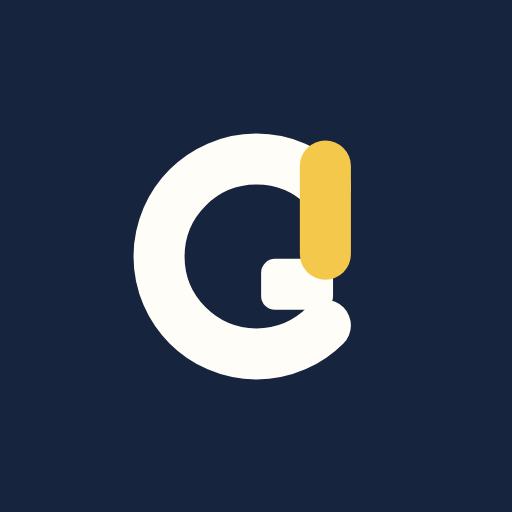
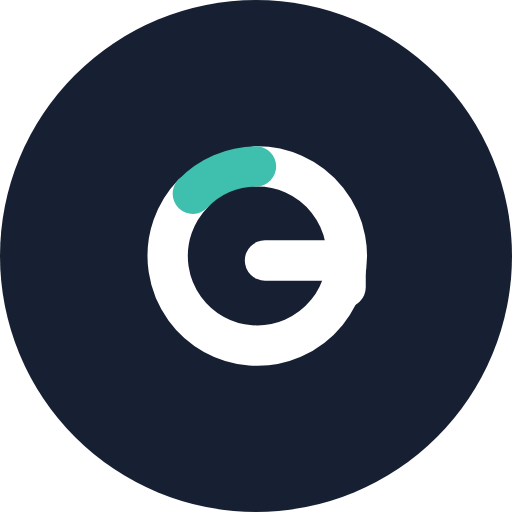
feat: G 심벌·브랜드 강조·아이콘 자산을 새 컬러 시스템에 맞춰 만든다
G 심벌 — 열린 원, 끊긴 곳을 잇는 획
  원      = 경험 → 근거 → 보완 → 기록의 순환
  끊긴 곳 = 아직 정리되지 않은 간격(Gap)
  틸 획   = 그 간격을 근거로 잇는 과정(Proof). 링과 같은 반지름·굵기로 이어 붙어
            "따로 붙은 장식"이 아니라 "원을 완성하는 조각"으로 읽힌다.

3안을 실제로 렌더해 16/24/32/64/160px, 단색, 어두운 배경, 워드마크 락업에서 비교했다.
  A. Open Arc  — 화살촉이 링 밖으로 튀어나와 실루엣이 깨지고, 링+바깥 화살촉은
                 새로고침 아이콘 어휘 그 자체라 사양이 금지한 형태다.
  B. Gap Arc   — 선택. 16px 단색에서 G 가 가장 또렷하고 새로고침 어휘가 없다.
                 처음 안은 틸 조각이 링에서 떨어져 보여 "잇는다" 가 읽히지 않아,
                 같은 반지름·굵기로 이어 붙이도록 다듬었다.
  C. Trace Ring— 실루엣은 깔끔하나 화살표가 아니라 그냥 굵은 끝이라 의미가 없다.

사양과 다르게 한 것: 열린 끝의 화살촉을 정적 심벌에서 뺐다.
읽히는 크기의 화살촉은 새로고침 아이콘으로 읽히고, 그렇게 보이지 않을 만큼 작게 하면
큰 크기에서 브리지에 흡수돼 혹처럼 보였다. 둘 다 사양이 금지한 결과다.
방향은 정적 심벌이 아니라 모션에서 표현한다.

노란 밑줄 재설계
기존은 높이 12px·불투명도 .65·기울임이라 형광펜처럼 글자를 덮었고, 다크에서는
초록 글자와 섞여 1.82:1 까지 떨어졌다. 글자를 덮지 않는 4px 선 하나로 바꾸고,
인디고→틸 그라데이션으로 심벌의 "잇는 획" 과 같은 두 색을 쓴다.
어두운 히어로에서는 색만으로 충분하므로 선을 두지 않는다.

어두운 칩 위 색 정리
--color-highlight 를 인디고로 바꾸면서 네이비 칩 위 글자가 2.64:1 이 됐다.
칩 위 전용으로 --color-brand-accent-on-dark(#3fbfae, 네이비 위 7.19:1)를 두고
진행 번호·파이프라인 번호·시각화 중앙 라벨·히어로 eyebrow 에 적용했다.
로고는 1.4.11 대상이 아니지만 보이지 않으면 의미가 없다.

자산 재생성 — favicon.svg, icon-192/512, 마스커블 512, apple-touch-icon, og.png.
마스커블은 안전영역 22% 를 확보했다. OG 는 심벌·워드마크·태그라인·판정 부정 고지·운영 주체.

측정: 7개 화면(/ /demo /why /how-it-works /technology /login /privacy) axe wcag2a+aa
심각·치명 위반 0건. 적용 전 /technology 1건(2.64:1)이었다.
unit 145/145, lint 신규 0, build 성공.

아직 안 한 것: 키네틱 워드마크 모션, 가독성·밀도 정리. 다음 단계다.
[…]

diff --git a/app/globals.css b/app/globals.css
@@ -12,7 +12,9 @@ button:focus-visible, textarea:focus-visible, input:focus-visible, a:focus-visib
 .brand { display: inline-flex; gap: 10px; align-items: center; min-height: 44px; color: var(--ink); text-decoration: none; font-size: 21px; font-weight: 850; letter-spacing: -.04em; }
 .brand-mark { width: 35px; height: 35px; display: grid; place-items: center; background: var(--color-brand-fill); color: var(--color-brand-fill-contrast); border-radius: 9px 9px 16px 9px; } /* 로고 마크는 테마와 무관하게 고정(브랜드 정체성) */
 .brand-mark svg { width: 74%; height: 74%; display: block; }
-.brand-mark .mark-bridge { fill: var(--yellow); }
+/* 심벌의 "잇는 획". 네이비 칩 위에서 읽혀야 하므로 본문용 틸(#0d7c73, 3.21:1)보다
+   밝은 값을 쓴다(7.19:1). 로고는 1.4.11 대상이 아니지만 보이지 않으면 의미가 없다. */
+.brand-mark .mark-bridge { stroke: var(--color-brand-accent-on-dark); }
 .brand-mark.small { width: 28px; height: 28px; border-radius: 7px 7px 12px 7px; }
 .top-actions { display: flex; align-items: center; gap: 18px; }
 /* design-loop-10: 헤더 테마 토글 — 아이콘+텍스트로 현재 상태를 알리고, 다른 버튼과 동일한 44px 터치 타깃 유지 */
@@ -71,8 +73,19 @@ button:focus-visible, textarea:focus-visible, input:focus-visible, a:focus-visib
 .hero { min-height: calc(100vh - 150px); min-height: calc(100svh - 150px); display: grid; grid-template-columns: 1.06fr .72fr; align-items: center; gap: 82px; }
 .eyebrow, .card-kicker { display: inline-block; color: var(--green); font-size: 12px; font-weight: 850; letter-spacing: .09em; text-transform: uppercase; }
 .hero h1, .section-head h1 { margin: 17px 0 22px; font-size: clamp(48px, 5.2vw, 78px); line-height: 1.05; letter-spacing: -.055em; font-weight: 700; }
-.hero h1 em { color: var(--green); font-style: normal; position: relative; }
-.hero h1 em::after { content: ""; position: absolute; height: 12px; bottom: 5px; left: -2px; right: -4px; background: var(--yellow); opacity: var(--hero-underline-opacity, .65); z-index: -1; transform: rotate(-1deg); }
+/* 강조 표현 — 형광펜 밑줄을 대신하는 브랜드 언어.
+   기존 노란 밑줄(높이 12px, 불투명도 .65, 기울임)은 형광펜처럼 글자를 덮어 본문 독해를
+   방해했고, 다크 모드에서는 초록 글자와 섞여 대비가 1.82:1 까지 떨어졌다.
+   여기서는 글자를 덮지 않는 얇은 선 하나만 글자 아래에 둔다.
+   한 화면에서 강조는 이 한 곳만 쓴다. */
+.hero h1 em { color: var(--color-primary); font-style: normal; position: relative; }
+.hero h1 em::after {
+  content: ""; position: absolute; left: 0; right: 0; bottom: -.06em;
+  height: 4px; border-radius: 2px;
+  /* 인디고에서 틸로 — 심벌의 "잇는 획"과 같은 두 색이다. */
+  background: linear-gradient(90deg, var(--color-primary) 0%, var(--color-accent) 100%);
+}
+@media (max-width: 720px) { .hero h1 em::after { height: 3px; } }
 .hero-lead { max-width: 690px; margin: 0; color: var(--color-text-muted); font-size: 18px; line-height: 1.78; word-break: keep-all; }
 .principles { display: flex; flex-wrap: wrap; gap: 8px; margin-top: 30px; }
 .principles span { padding: 9px 12px; border: 1px solid var(--line); border-radius: 999px; background: var(--color-surface); color: var(--color-text-muted); font-size: 13px; }
@@ -178,7 +191,7 @@ body.drawer-open { overflow: hidden; }
 /* 번호 배지 — 홈 "어떻게 작동하는가"(.home-steps)와 동일한 패턴 재사용, 12단계 텍스트 나열을 스캔 가능하게 */
 .info-pipeline { counter-reset: pstep; margin: 0; padding-left: 0; list-style: none; }
 .info-pipeline li { counter-increment: pstep; position: relative; margin-bottom: 14px; padding-left: 42px; min-height: 26px; font-size: 14px; }
-.info-pipeline li::before { content: counter(pstep); position: absolute; top: 0; left: 0; width: 26px; height: 26px; display: inline-flex; align-items: center; justify-content: center; border-radius: 50%; background: var(--color-brand-fill); color: var(--yellow); font-weight: 800; font-size: 12px; }
+.info-pipeline li::before { content: counter(pstep); position: absolute; top: 0; left: 0; width: 26px; height: 26px; display: inline-flex; align-items: center; justify-content: center; border-radius: 50%; background: var(--color-brand-fill); color: var(--color-brand-accent-on-dark); font-weight: 800; font-size: 12px; }
 .info-pipeline li b { display: block; margin-bottom: 2px; }
 .info-pipeline li p { margin: 0; color: var(--color-text-muted); font-size: 13px; line-height: 1.6; }
 /* design-loop-09: 표 대신 재사용 — 3개 필드를 가진 순서형 단계를 표 없이 카드처럼 보여준다 */
@@ -491,7 +504,7 @@ body.drawer-open { overflow: hidden; }
   .identity small { color: #4a5568 !important; }
   .identity p { color: #333f52 !important; }
   .brand-mark, .brand-mark.small { background: #fff !important; color: var(--color-brand-fill) !important; border: 2px solid var(--color-brand-fill); }
-  .brand-mark .mark-bridge { fill: var(--color-brand-fill) !important; } /* 흰 배경 인쇄에서 노란 브리지 대비 확보 */
+  .brand-mark .mark-bridge { stroke: var(--color-brand-fill) !important; } /* 흰 배경 인쇄에서는 단색으로 */
   .primary span { color: var(--color-brand-fill) !important; }
 }
 
@@ -508,8 +521,9 @@ body.drawer-open { overflow: hidden; }
 .home-hero { background: var(--hero-gradient); }
 .home-hero-inner { max-width: 980px; margin: 0 auto; padding: 64px 24px 44px; }
 .home-hero h1 { font-weight: 700; font-size: clamp(30px, 5.4vw, 52px); line-height: 1.15; letter-spacing: -.02em; margin: 12px 0 16px; color: #fff; word-break: keep-all; overflow-wrap: break-word; }
-.home-hero .eyebrow { color: var(--yellow); word-break: keep-all; }
-.home-hero h1 em { color: var(--yellow); font-style: italic; background: none; }
+.home-hero .eyebrow { color: var(--color-brand-accent-on-dark); word-break: keep-all; }
+.home-hero h1 em { color: var(--color-brand-accent-on-dark); font-style: normal; background: none; }
+.home-hero h1 em::after { display: none; } /* 어두운 배경에서는 색만으로 충분하다 */
 .home-hero .lead { max-width: 640px; color: rgba(255, 255, 255, .84); }
 .home-cta-row { display: flex; flex-wrap: wrap; gap: 12px; margin-top: 22px; }
 .home-cta-row a { display: inline-flex; align-items: center; justify-content: center; text-decoration: none; }
@@ -557,7 +571,7 @@ body.drawer-open { overflow: hidden; }
 .home-more:hover { text-decoration: underline; }
 .home-steps { counter-reset: hstep; display: grid; grid-template-columns: repeat(4, 1fr); gap: 12px; padding: 0; margin: 0; list-style: none; }
 .home-steps li { counter-increment: hstep; background: var(--paper); border: 1px solid var(--line); border-radius: 14px; padding: 14px; }
-.home-steps li::before { content: counter(hstep); display: inline-flex; width: 26px; height: 26px; align-items: center; justify-content: center; border-radius: 50%; background: var(--color-brand-fill); color: var(--yellow); font-weight: 800; font-size: 13px; margin-bottom: 8px; }
+.home-steps li::before { content: counter(hstep); display: inline-flex; width: 26px; height: 26px; align-items: center; justify-content: center; border-radius: 50%; background: var(--color-brand-fill); color: var(--color-brand-accent-on-dark); font-weight: 800; font-size: 13px; margin-bottom: 8px; }
 .home-steps b { display: block; }
 .home-steps span { color: var(--color-text); font-size: 13px; line-height: 1.55; }
 .home-cases { display: grid; grid-template-columns: repeat(3, 1fr); gap: 14px; margin-top: 14px; }
@@ -784,6 +798,7 @@ body.drawer-open { overflow: hidden; }
   --color-brand-fill: #172033;
   --color-brand-fill-contrast: #ffffff;
   --color-brand-accent: #0d7c73;
+  --color-brand-accent-on-dark: #3fbfae;
   --color-highlight: #4057c8;
   --color-highlight-contrast: #ffffff;
   --color-fill-contrast: #ffffff;
@@ -1012,10 +1027,10 @@ body.drawer-open { overflow: hidden; }
 .stack-converge .stack-converge-core {
   display: grid; place-items: center; gap: 3px; margin: 0;
   width: 116px; height: 116px; border-radius: 50%;
-  background: var(--color-brand-fill); color: var(--yellow); text-align: center;
+  background: var(--color-brand-fill); color: var(--color-brand-accent-on-dark); text-align: center;
 }
 .stack-converge .stack-converge-core b,
-.stack-converge .stack-converge-core small { color: var(--yellow); }
+.stack-converge .stack-converge-core small { color: var(--color-brand-accent-on-dark); }
 .stack-converge .stack-converge-core b { font-size: 16px; font-weight: 800; letter-spacing: -.01em; }
 /* opacity 를 주면 대비 계산이 조상 배경으로 떨어져 실제보다 낮게 잡힌다. 색으로만 낮춘다. */
 .stack-converge .stack-converge-core small { font-size: 11px; }

diff --git a/app/components/brand-mark.tsx b/app/components/brand-mark.tsx
@@ -1,12 +1,40 @@
-// Issue #24: 확정 브랜드 심볼(A1 Broken G Bridge).
-// G의 개구부(간극)를 노란 브리지가 잇는 구조 — .brand-mark 컨테이너 안에서 사용.
-// 본체는 currentColor, 브리지는 .mark-bridge(CSS)로 칠해 인쇄 반전(#26)에도 대응한다.
+// GapProof 브랜드 심벌 — 대문자 G, 열린 원, 끊긴 곳을 잇는 획.
+//
+// 의미:
+//   원      = 경험 → 근거 → 보완 → 기록의 순환
+//   끊긴 곳 = 아직 정리되지 않은 간격(Gap)
+//   틸 획   = 그 간격을 근거로 잇는 과정(Proof). 링과 같은 반지름·굵기로 이어 붙어
+//             "따로 붙은 장식"이 아니라 "원을 완성하는 조각"으로 읽힌다.
+//
+// 사양과 다르게 한 것: 열린 끝에 화살촉을 두지 않았다.
+// 실제로 그려 보니 읽히는 크기의 화살촉은 링 + 화살촉 = 새로고침 아이콘으로 읽히고,
+// 새로고침으로 보이지 않을 만큼 작게 하면 큰 크기에서 브리지에 흡수돼 혹처럼 보였다.
+// 둘 다 사양이 금지한 결과이므로, 방향은 정적 심벌이 아니라 모션에서 표현한다.
+//
+// 색: 본체는 currentColor(테마·인쇄 반전 대응), 잇는 획은 .mark-bridge(CSS)로 칠한다.
+// 단색으로 써야 하는 자리에서는 .mark-bridge 를 currentColor 로 두면 된다.
 export default function BrandGlyph() {
   return (
     <svg viewBox="0 0 64 64" aria-hidden="true" focusable="false">
-      <path d="M 46.85 46.85 A 21 21 0 1 1 46.85 17.15" fill="none" stroke="currentColor" strokeWidth="11" strokeLinecap="round" />
-      <rect x="33" y="32.5" width="15.5" height="11" rx="3" fill="currentColor" />
-      <rect className="mark-bridge" x="41.35" y="7" width="11" height="30" rx="5.5" />
+      {/* 열린 원 — 왼쪽 위가 끊겨 있다 */}
+      <path
+        d="M32 12 A20 20 0 1 1 17.9 18.1"
+        fill="none"
+        stroke="currentColor"
+        strokeWidth="9"
+        strokeLinecap="round"
+      />
+      {/* G의 가로획 */}
+      <path
+        d="M34 33 H52 V39"
+        fill="none"
+        stroke="currentColor"
+        strokeWidth="9"
+        strokeLinecap="round"
+        strokeLinejoin="round"
+      />
+      {/* 끊긴 곳을 잇는 획 — 링과 같은 반지름·굵기라 "원을 완성하는 조각"으로 읽힌다 */}
+      <path className="mark-bridge" d="M17.9 18.1 A20 20 0 0 1 32 12" fill="none" strokeWidth="9" strokeLinecap="round" />
     </svg>
   );
 }
